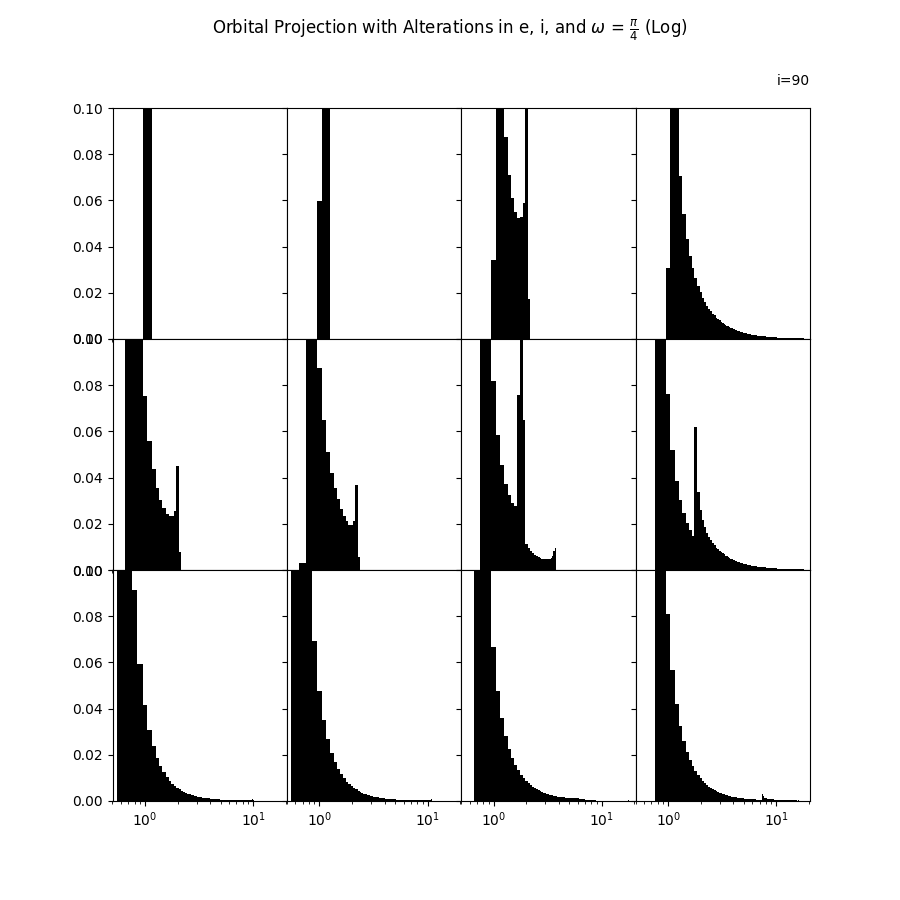
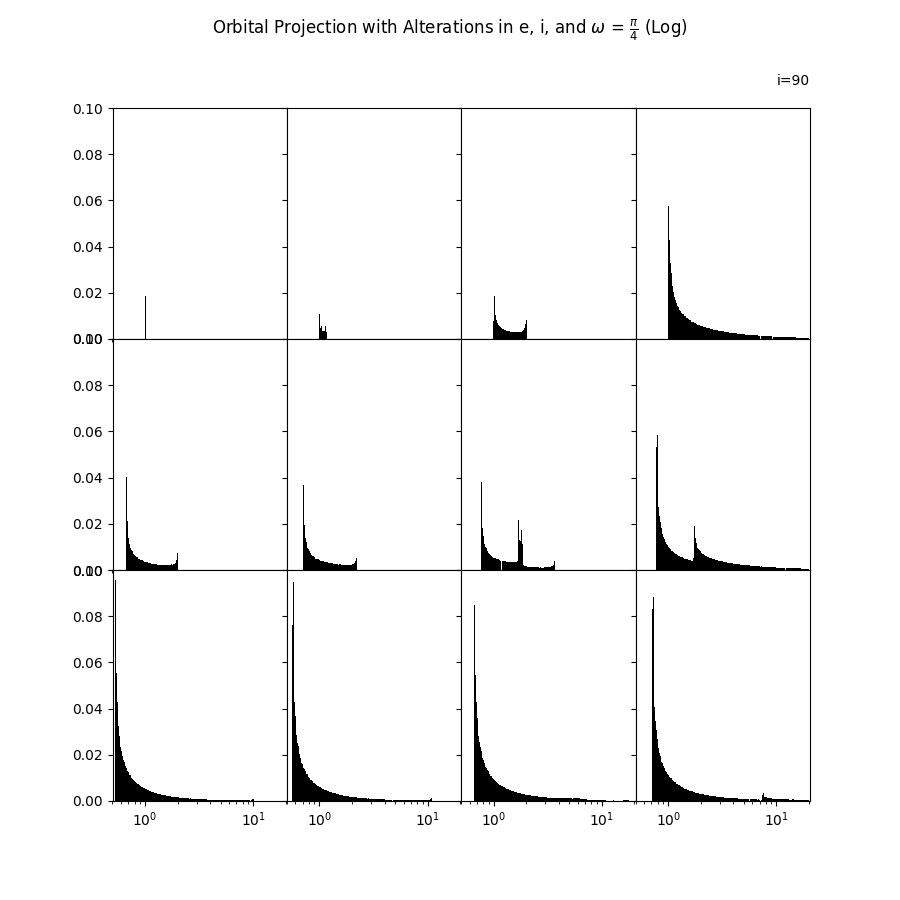
Created Log Bins for Plots to see better distributions and fixed issue with top left linear plot

diff --git a/Sep.py b/Sep.py
@@ -393,8 +393,8 @@ def Rchange(param, coords = False):
             rlist.append(np.where(np.abs(r-r0)<=0.01, val, 0))
             xlist.append(np.where(np.abs(r-r0)<=0.01, x, None))
             ylist.append(np.where(np.abs(r-r0)<=0.01, y, None))
-    
-    gc.collect()            
+    # if Linear == False:
+    # gc.collect()            
     return rlist, xlist, ylist
 
 def DataProj(t0 = 0.0, a=1.0, w = 0.0, W = 0.0, i = 0.0, e = 0.0, startinga = 1.25):
@@ -791,11 +791,11 @@ def DataHist(w = 0, step = 0.001, end = 10, Linear = True):
         Linear = False
     param = [
     # Row 1
-    (0 , 0, w, end, step, Linear), (0, np.pi/6, w, end, step, Linear), (0, np.pi/3, w, end, step, Linear), (0, np.pi/2, w, end, step, Linear),
+    (0. , 0., w, end, step, Linear), (0., np.pi/6, w, end, step, Linear), (0., np.pi/3, w, end, step, Linear), (0., np.pi/2, w, end, step, Linear),
     # Row 2
-    (0.5, 0, w, end, step, Linear), (0.5, np.pi/6, w, end, step, Linear), (0.5, np.pi/3, w, end, step, Linear), (0.5, np.pi/2, w, end, step, Linear),
+    (0.5, 0., w, end, step, Linear), (0.5, np.pi/6, w, end, step, Linear), (0.5, np.pi/3, w, end, step, Linear), (0.5, np.pi/2, w, end, step, Linear),
     # Row 3
-    (0.9, 0, w, end, step, Linear), (0.9, np.pi/6, w, end, step, Linear), (0.9, np.pi/3, w, end, step, Linear), (0.9, np.pi/2, w, end, step, Linear)
+    (0.9, 0., w, end, step, Linear), (0.9, np.pi/6, w, end, step, Linear), (0.9, np.pi/3, w, end, step, Linear), (0.9, np.pi/2, w, end, step, Linear)
         
     ]
     
@@ -815,7 +815,7 @@ def DataHist(w = 0, step = 0.001, end = 10, Linear = True):
     #     list3,list6,list9, list12
     # ]
     
-    return totlist
+    return totlist, param
 
 def MultiPlotProj(t0 = 0.0, a=1.0, w = 0.0, W = 0.0, i = 0.0, e = 0.0, startinga = 1.5):
     """
@@ -993,8 +993,7 @@ def MultiPlotHist(w = 0, step = 0.001, end = 10, Linear = True):
     """
     
     
-    
-    totlist = DataHist(w = w, step = step, end = end, Linear = Linear)
+    totlist, param = DataHist(w = w, step = step, end = end, Linear = Linear)
     
     
     fig, axs = plt.subplots(3,4, figsize = (9,9), sharex=True,sharey=True,gridspec_kw=dict(hspace=0,wspace=0))               
@@ -1010,26 +1009,35 @@ def MultiPlotHist(w = 0, step = 0.001, end = 10, Linear = True):
         flat_data = np.concatenate([arr[arr != 0] for arr in iterlist])
         # Calculate weights for normalization
         # Check if this is wrong or not, cause of the np.ones_like()
-        weights = np.ones_like(flat_data) / len(flat_data)
+        weights = np.ones_like(flat_data) / len(flat_data)    
+
+        # Creates the log spaced bins for our data
+        # Stupid fix to stupid problems :)
+        if j == 0 and Linear == True:
+            logbins = np.linspace(0.5,20,2000+1)
+        else:
+            logbins = np.geomspace(flat_data.min(),flat_data.max(), 200+1)
         
-        datahist, bins, patches = ax.hist(flat_data, bins=200, range=(0.5,end+0.5), 
-                                         align="right", stacked=True, histtype="barstacked", 
-                                         weights=weights)
-        
+        datahist, bins, patches = ax.hist(
+            flat_data, bins=logbins, range=(0.5, end+0.5),
+            align="right", stacked=True, histtype="barstacked",
+            weights=weights
+        )
+
         for patch in patches:
             patch.set_facecolor("black")
         ax.set_xlim(0.5,20.5)
         ax.set_ylim(0,0.1)
-        if Linear == False:
-            ax.set_xscale("log")
+        ax.set_xscale("log")
+        
     
-    plt.text(-70,0.25,"e=0")
-    plt.text(-70,0.15,"e=0.5")
-    plt.text(-70,0.05,"e=0.9")
-    plt.text(-52,0.31,"i=0")
-    plt.text(-32,0.31,"i=30")
-    plt.text(-12,0.31,"i=60")
-    plt.text(10, 0.31,"i=90")
+    plt.text(1.25e-6,0.25,"e=0")
+    plt.text(1.25e-6,0.15,"e=0.5")
+    plt.text(1.25e-6,0.05,"e=0.9")
+    plt.text(3e-5,0.31,"i=0")
+    plt.text(1.5e-3,0.31,"i=30")
+    plt.text(5.5e-2,0.31,"i=60")
+    plt.text(2.75, 0.31,"i=90")
     if Linear == True:
         plt.savefig('/College Projects/Microlensing Separation/Figures/MultiHist_omega_pi_4_0001_Linear.png')
     else:
